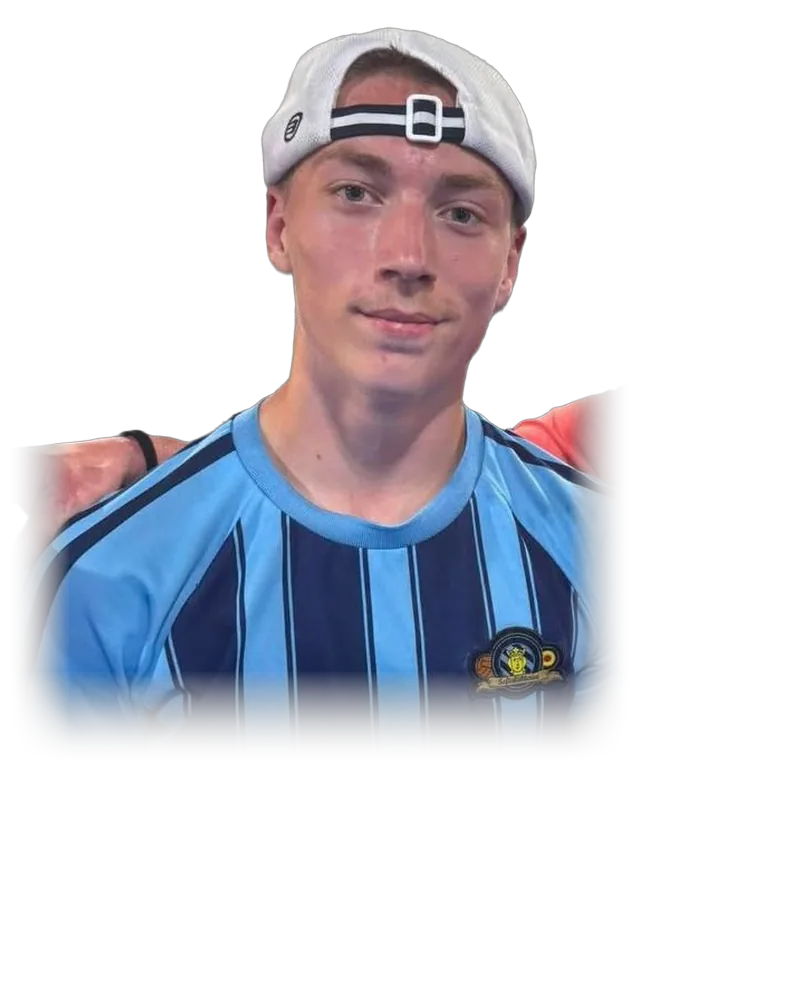
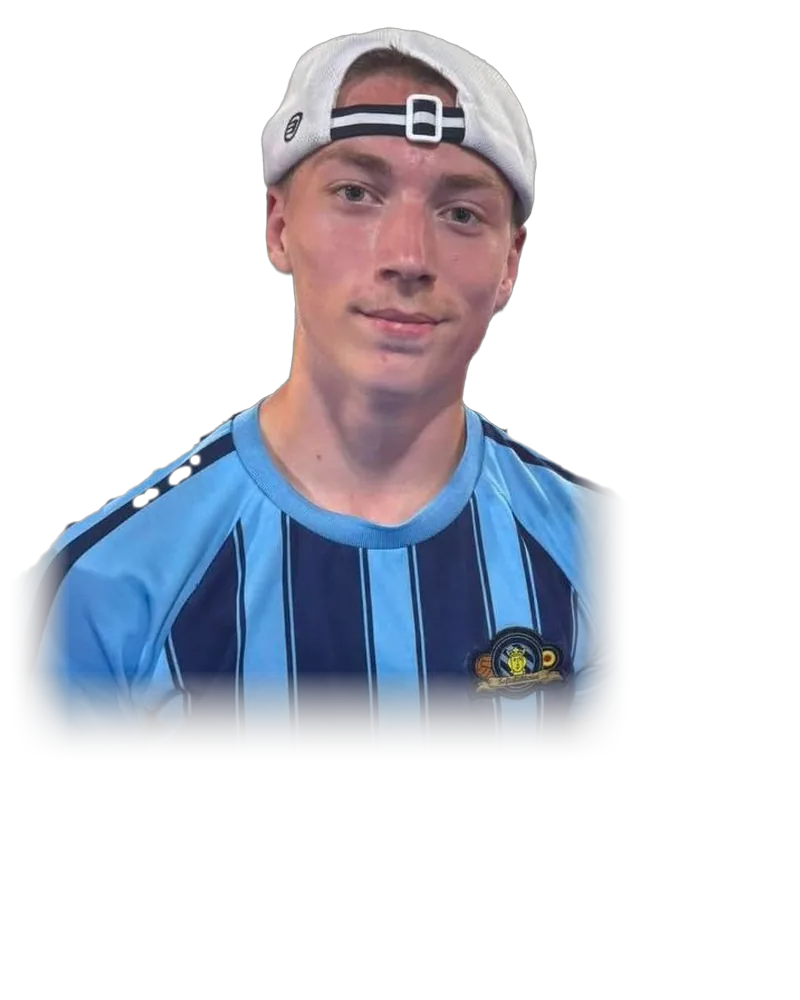
Frilagda profilikoner; rensad bild på Svante
Claude-Session: https://claude.ai/code/session_01Rhd6j1scGRTYXdtTDV2Ude

Changed region(s): [[0.0312, 0.403, 0.25, 0.589], [0.625, 0.372, 0.7812, 0.496]]

diff --git a/index.html b/index.html
@@ -3,7 +3,7 @@
 <head>
 <meta charset="UTF-8">
 <!-- CSP: the inline script by hash (worker/csp.mjs keeps it current: npm test / deploy.sh run it) -->
-<meta http-equiv="Content-Security-Policy" content="default-src 'none'; script-src 'sha256-z+rqaBx5nZZ6UoZxokY4M0FmUW/nUneKdXigTbrxpnY='; style-src 'self' 'unsafe-inline' https://fonts.googleapis.com; font-src https://fonts.gstatic.com; img-src 'self' https://cdn.rankedin.com https://rankedin-prod-cdn-adavg8d3dwfegkbd.z01.azurefd.net; connect-src 'self' https://api.rankedin.com https://padel-push.holmberg-padel.workers.dev; manifest-src 'self'; worker-src 'self'; base-uri 'none'; form-action 'none'; object-src 'none'">
+<meta http-equiv="Content-Security-Policy" content="default-src 'none'; script-src 'sha256-d16S7hOpH9FNRDCg9ZfEtIT3TgfByyF9oLoq4t32v0I='; style-src 'self' 'unsafe-inline' https://fonts.googleapis.com; font-src https://fonts.gstatic.com; img-src 'self' https://cdn.rankedin.com https://rankedin-prod-cdn-adavg8d3dwfegkbd.z01.azurefd.net; connect-src 'self' https://api.rankedin.com https://padel-push.holmberg-padel.workers.dev; manifest-src 'self'; worker-src 'self'; base-uri 'none'; form-action 'none'; object-src 'none'">
 <meta name="robots" content="noindex, nofollow">
 <meta name="viewport" content="width=device-width, initial-scale=1, viewport-fit=cover">
 <title>Nynäs Padel</title>
@@ -1142,7 +1142,7 @@
   function avatar(n){
     var s = slug(n), me = BYNAME[s], ph = PHOTOS[s], rin = me && rinPhoto(me, true);
     if (rin) return '<span class="av" title="' + esc(n) + '" data-ini="' + esc(initials(n)) + '"><img class="rin" src="' + esc(rin) + '" alt="" loading="lazy" decoding="async" referrerpolicy="no-referrer" width="36" height="36"></span>';
-    if (me) return me.avatar ? '<span class="av" title="' + esc(n) + '"><img src="' + esc(me.avatar) + '" alt="" loading="lazy" decoding="async" width="36" height="36" style="object-position:50% 30%"></span>' :
+    if (me) return me.avatar ? '<span class="av" title="' + esc(n) + '"><img src="' + esc(me.avatar) + '" alt="" loading="lazy" decoding="async" width="36" height="36"></span>' :
       '<span class="av ini" title="' + esc(n) + '" aria-hidden="true">' + esc(initials(n)) + '</span>';
     // img/av/: 150 px squares already cropped at pos (worker/avatars.py)
     if (ph) return '<span class="av" title="' + esc(n) + '"><img src="img/av/' + (ph.src || s) + '.jpg" alt="" loading="lazy" decoding="async" width="36" height="36"></span>';
